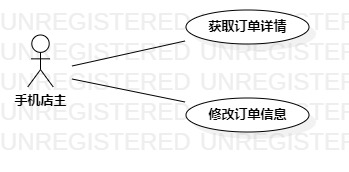
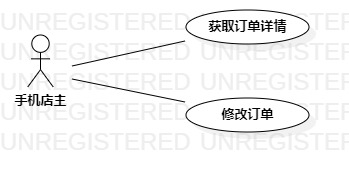
#2 #3 #4 #5 #1087 实验四五及修改实验二、三

Changed region(s): [[0.5731, 0.6105, 0.8309, 0.6977]]

diff --git a/students/1714080902406/lab2.md b/students/1714080902406/lab2.md
@@ -16,7 +16,7 @@
 （3）使用StartUML画出用例图       
 3.4 编写用例规约   
 （1）编写获取订单详情用例规约    
-（2）编写修改订单信息用例规约    
+（2）编写修改订单用例规约    
 ## 4 实验结果  
 ![第一张用例图](./UseCaseDiagram1.jpg)  
  图1：手机商品订单管理系统用例图     
@@ -26,25 +26,36 @@
 用例编号  | UC01 | 备注  
 -|:-|-  
 用例名称  | 获取订单详情  |   
-前置条件  |   手机店主有订单   | *可选*   
+前置条件  |      | *可选*   
 后置条件  |      | *可选*   
-基本流程  | 1. 系统显示订单列表  |*用例执行成功的步骤*   
-~| 2. 手机店主点击列表项  | 
-~| 3. 系统获取订单详细表  |
-~|4. 页面显示订单信息|
-扩展流程  | 1.1 系统没有显示订单列表|*用例执行失败*    
+基本流程  | 1. 手机店主点击订单未出货订单按钮 |*用例执行成功的步骤*   
+~| 2. 系统查询未出货订单列表  |
+~| 3.1. 查询结果为空，系统提示“没有订单”|
+~| 3.2. 查询结果不为空，系统显示订单列表，进入步骤4  | 
+~| 4. 手机店主点击列表项  | 
+~| 5. 系统查询订单详细  |
+~| 6. 系统显示订单信息页面|
+扩展流程  | |*用例执行失败*    
 
-## 表2：修改订单信息用例规约  
+## 表2：修改订单用例规约  
 
 用例编号  | UC02 | 备注  
 -|:-|-  
-用例名称  |修改订单信息 |   
+用例名称  |修改订单 |   
 前置条件  |  系统显示订单详情页面    | *可选*   
 后置条件  |      | *可选*   
 基本流程  |1. 手机店主点击修改订单按钮 |*用例执行成功的步骤*    
-~| 2. 页面获取订单详细表并并显示可修改订单信息页面 |
-~| 3. 手机店主输入订单信息 |
-~|4. 手机店主点击完成按钮|
-~| 5. 系统保存到订单详细表，提示“修改订单成功”  |
-~| 6. 系统跳转到订单详情页面  |  
-扩展流程  | 3.1  系统检测订单信息输入的内容为空 ，提示“输入内容不能为空”|*用例执行失败*   
+~| 2. 系统查询订单详细 |
+~| 3. 系统显示可修改订单信息页面 |
+~| 4. 手机店主输入订单信息 |
+~| 5. 手机店主点击完成按钮|
+~| 6. 系统更新订单详细，提示“修改订单成功”  |  
+扩展流程  | 5.1.  系统检测订单信息输入的内容为空 ，提示“输入内容不能为空”|*用例执行失败* 
+~| 5.2. 返回步骤4 |
+~| 5.3. 系统检测订单信息输入的内容不合法，提示“输入内容不合法” |
+~| 5.4. 返回步骤4 |
+
+## 5 实验总结
+1. 用例规约编写要写清楚系统的关键行为。
+2. 用例规约编写要清楚判断的条件，前一步的关键行为会产生什么不同的结果。
+3. 分清用例执行失败的条件是什么，阻止用例执行的因素有哪些？

diff --git a/students/1714080902406/lab3.md b/students/1714080902406/lab3.md
@@ -7,20 +7,28 @@
 
 ## 二.实验内容
 
-根据实验二中的用例规约创建活动图
+根据实验二中的用例规约创建活动图。
 
 ## 三.实验步骤
 
-1. 观看老师视频，熟悉活动图（Activity Diagram）的符号及其用法
-2. 在StarUML创建Activity Diagram
-3. 添加Initial结点
+1. 观看老师视频，熟悉活动图（Activity Diagram）的符号及其用法。
+2. 在StarUML创建Activity Diagram。
+3. 添加Initial结点。
 4. 根据实验二中的用例规约添加Action和Decision
-5. 用Control Flow连接图形
-6. 添加Final结点
-7. 调节符号之间的间距和比例，完善活动图
+5. 边画边思考用例规约的每一步。
+6. 发现错误或不足，修改第二次实验的用例规约。
+7. 完善活动图。
+8. 提交活动图图到GitHub上并撰写实验报告。
 
 ## 四.实验结果
+
 ![Lab3_1](./lab3_1.jpg)  
 图1：获取订单详情活动图  
+
 ![Lab3_2](./lab3_2.jpg)   
-图2：修改订单信息活动图  
+图2：修改订单活动图  
+
+## 五.实验总结
+1. 仔细分析条件判断的前一步关键行为有没有其他的结果。
+2. 系统的关键行为要画出来。
+3. 依照用例规约画活动图，边画边思考，不断完善用例规约。

diff --git a/students/1714080902406/lab4.md b/students/1714080902406/lab4.md
@@ -1,0 +1,33 @@
+# 实验四五：类建模
+
+## 一、实验目标
+
+1. 掌握类建模方法。
+2. 掌握类图的画法。（Class Diagram）
+3. 了解MVC设计模式。
+
+## 二、实验内容
+
+1. 根据用例规约图中的基本流程和扩展流程设计类。
+2. 基于MVC设计模式画出类图。
+
+## 三、实验步骤
+
+1. 先确定整个用例所设计到的类、试图和控制器。
+2. 根据用例规约添加相应的类、试图和控制器。
+3. 分析各个类之间的关系。
+4. 给每个类、试图和控制器连接建立关系。
+5. 完善类图。
+6. 提交类图到GitHub上并撰写实验报告。
+
+## 四、实验结果
+
+![Lab4_1](./lab4_1.jpg)  
+图1：获取订单详情活动图 
+ 
+![Lab4_2](./lab4_2.jpg)   
+图2：修改订单活动图  
+
+## 五.实验总结
+1. 深刻理解类和类的属性。像类与类之间是聚合还是继承或者说是联合(association)。
+2. 从需求分析中深度挖掘需要的类。
